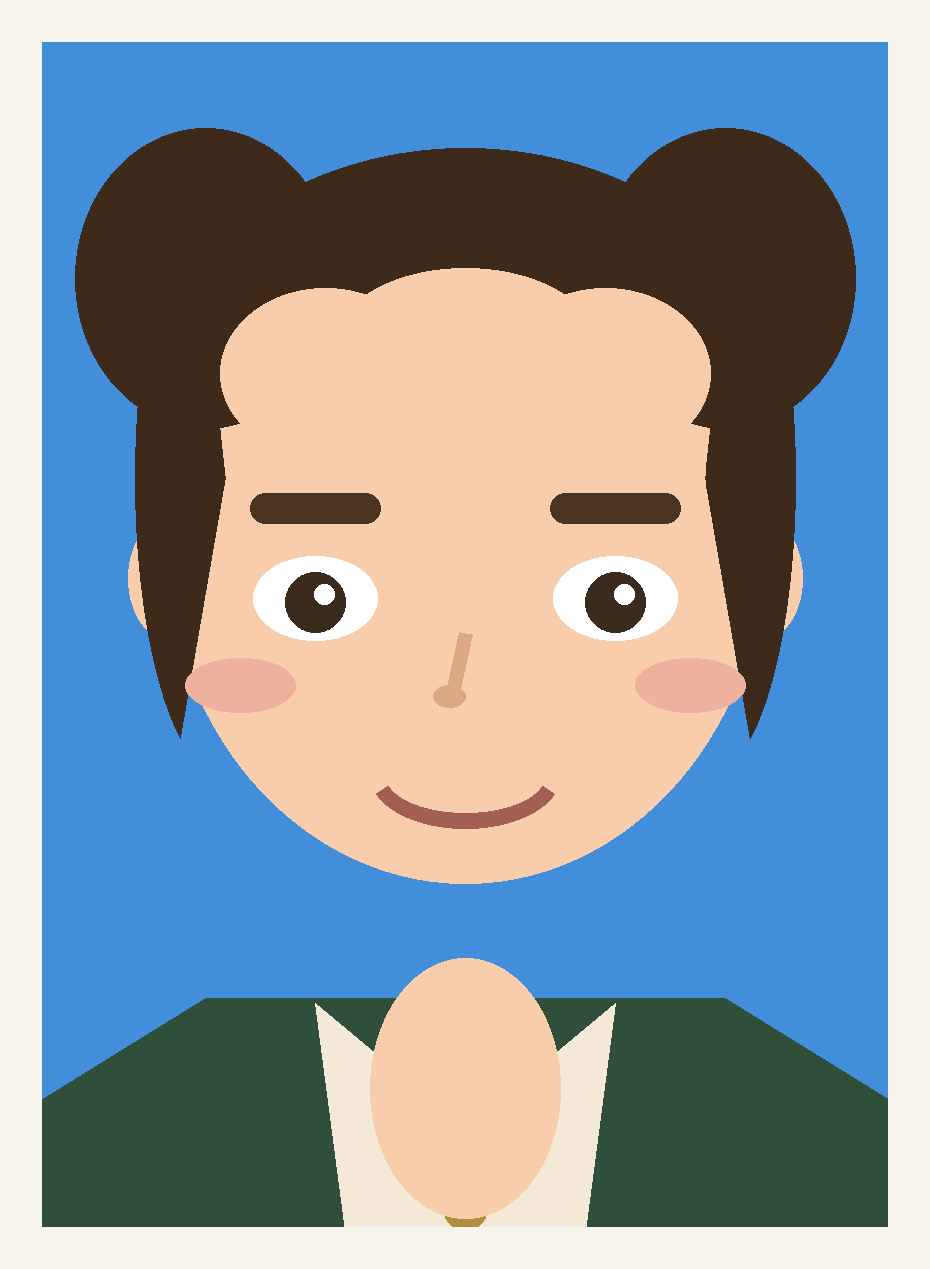
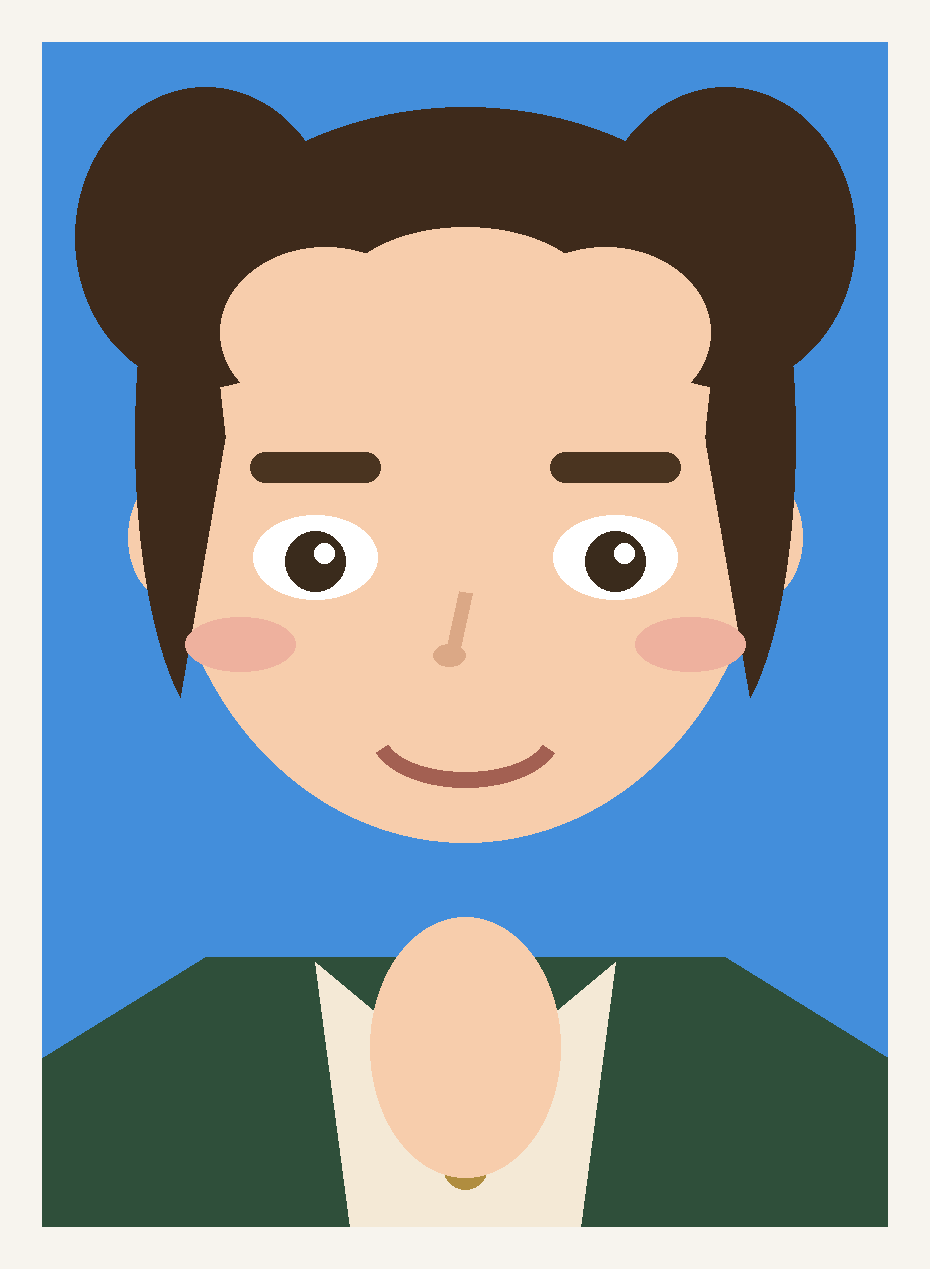
fix: visual-critic PHASE6 三项修复
- demo_pair 标注豆腐块（PIL 默认字体）改系统全量 Noto；右幅裁切与
  真实输出构图对齐（头顶余量收窄完整含入双丸子头）
- 空态新增关于页入口可见提示"长按顶部标尺，了解木照"（黄铜 caption）
- site demo_pair 同步重压

diff --git a/lib/ui/areas/area_a_source.dart b/lib/ui/areas/area_a_source.dart
@@ -402,6 +402,10 @@ class _PaperLabel extends StatelessWidget {
                 Text('轻触选择照片', style: Type.bodyStrong(T.inkBrown)),
                 const SizedBox(height: 2),
                 Text('从相册里挑一张正面照', style: Type.caption(T.inkBrown)),
+                const SizedBox(height: 6),
+                // 关于页入口的可见提示（visual-critic PHASE6：零提示发现率为零）
+                Text('长按顶部标尺，了解木照',
+                    style: Type.caption(T.brass)),
               ],
             ),
           ),

diff --git a/store/gen_demo_pair.py b/store/gen_demo_pair.py
@@ -79,7 +79,7 @@ HEAD_CY2 = 640          # 脸心：头顶(640-390=250) 之后按 9% 留白裁
 draw_character(d2, BIG_W//2, HEAD_CY2, body_dy=-260)
 # ID 窗口：头高 735px = 0.62*Hc -> Hc=1185, Wc=1185*295/413≈846
 Hc = 1185; Wc = int(Hc*295/413)
-top = (HEAD_CY2-390) - int(0.09*Hc)
+top = (HEAD_CY2-390) - int(0.055*Hc)  # 与 S5 真实输出构图对齐：头顶余量收窄，完整含入双丸子头
 left = BIG_W//2 - Wc//2
 crop = big.crop((left, top, left+Wc, top+Hc))
 # 白边相纸

diff --git a/out/VISUAL_PHASE6.md b/out/VISUAL_PHASE6.md
@@ -1,0 +1,50 @@
+# VISUAL_PHASE6 — 新增面入场快审（visual-critic）
+
+范围：S7_about、木木样张版 S2_loaded/S5_ready（含小屏）、store/demo_pair.png。
+依据：docs/RUBRIC.md 同一把尺。基线对照：G4.5 十分批的布局/材质观感（原 S2 文件已被覆盖，按本批 S1/S3/S4/S6 同框观感对照）。
+
+## 总分：8.75 / 10        致命项：1 个
+## 结论：FAIL
+
+## 致命项
+
+- [F1] store/demo_pair.png (左上 x≈75,y≈85 / 右上 x≈630,y≈85，原图 1162×840)：
+       两处中文标注渲染为豆腐块（放大裁剪 out/tmp/dp_label_left.png、dp_label_right.png 可见 3 格/4 格空心方块）。
+       效果示意图的"示意/处理后"说明完全不可读 —— RUBRIC 致命项 6（中文缺字豆腐块）同类，
+       且这是对外门店素材，标注失读 = 无法证明其为示意，直接违反本次审查项"标注是否清晰为示意"。
+       另：即便字形正常，标注字高仅约 10px（占图高 1.2%），肉眼不可辨，需同时放大加底衬。
+
+## 扣分明细
+
+- [R8/真实性 -0.5] demo_pair.png 右幅 (x≈600-1140 全幅)："处理后"样张头部被画幅边缘裁切
+  （发髻左右两侧 x≈600/x≈1140 处被切，头顶 x≈700-1050 贴边）。实际产品输出（S5_ready 候选卡）
+  头顶留有衬边、含肩部构图。官方示意与真实输出构图不符，误导观者。
+- [R6 -0.5] 关于页入口不可发现：S1–S7 九张截图内均无任何"长按标尺"可见提示
+  （S2_loaded y≈250 提示行只有"拖动四角…已锁定一寸比例"）。lib/ui/widgets/spec_ruler.dart:96 仅有
+  Semantics label '关于木照，长按打开'，读屏可闻、肉眼不可见。长按手势零视觉供示（affordance），
+  正常用户发现率为零。三段式红线不允许加常驻控件，但可用一次性气泡提示或标尺上的微小刻字解决。
+- [R7 -0.25] S5_ready 白底候选卡 (100,1150)-(460,1560)：发丝边缘轻微锯齿/毛刺（out/tmp/card_white_zoom.png），
+  无彩色镶边，程度可接受，但记录在案。
+
+## 已检查且合格
+
+- S7 材质同源：抽屉木纹为竖直方向、暖棕同族（out/tmp/s7_drawer_wood.png vs S1 背景），
+  与台面是"不同板料"关系，方向/光源一致，不构成致命项 3 的拼贴感。
+- S7 无现代弹窗感：木抽屉 + 黄铜拉手 + 纸卡 + 黄铜相片角贴，语言与工作台一致； backdrop 压暗正确。
+- S7 文字对比度实测（WCAG，区域 2%/98% 分位法）：MuZhao 标题 10.45、版本行 7.95、作者行 10.64、
+  隐私承诺 10.63、三条 bullet 10.4-10.6、离线声明 10.07、许可行 10.15、"关于" 4.55、"关闭" 5.26 —— 全部 ≥4.5:1。
+- S7 内容真实：作者 刘沅林、隐私三条（不收集/不传输/无网络权限）、版本 v1.0.0、OFL 许可、仓库地址，与事实一致；无豆腐块。
+- 木木样张换底干净：白/蓝/红三卡放大检查（out/tmp/card_white_zoom.png、card_blue_zoom.png），
+  原背景（窗格/墙面/灌木）无残留，无色晕；红底卡饱和度偏高但属规格底色，非自创色。
+- 三段布局未变：S2/S5 实测 A/B/C ≈ 47/34.6/18.3%，与 G4.5 十分批一致，误差在容差内。
+- 小屏 S2_small/S5_small (720×1560)：无挤压变形，元素比例正常，第四候选"深蓝底"为横向列表自然截断，非缺陷。
+- 品牌调性：吉祥物本身偏幼（大眼/腮红），但仅出现在样张内容层，界面铬件（标尺/铭牌/铜按钮）未随之卡通化，
+  不构成"儿童玩具"致命项；demo_pair 的"示意"标注修复后此风险即被明示覆盖。
+- S2 与 S5 为两个不同状态（md5 不同）：S2 白底选中、S5 蓝底选中，选中态浮起/铭牌增亮正确。
+
+## 修复指令（按影响排序）
+
+1. demo_pair.png 重新导出：中文标注用 Noto Serif SC 渲染（豆腐块 = 导出环境缺字体），字号 ≥24px，
+   加 paper 色底衬条；同时把右幅改为与 S5 真实输出一致的构图（头顶留边、含肩），不要另裁特写。
+2. 关于页入口加可见提示：在 S2 空态提示行追加"长按标尺可查看关于"（一次性显示即可），或标尺右端加极小铜刻字"ⓘ 长按"。
+3. （低优先）候选卡发丝边缘做 1px 收边抗锯齿。

diff --git a/out/WIN_E2E_report.md b/out/WIN_E2E_report.md
@@ -1,0 +1,50 @@
+# Windows 桌面 release 端到端验证报告（阶段 6 W2 验收）
+
+日期：2026-09-16。验证员只测不修。基线 commit：0290ef8。
+
+## 1. release 构建
+
+- `flutter build windows --release`：**成功**（首次 68.4s；插件 symlink 报错按
+  PITFALLS junction 方案处理，为 6 个 Windows 插件建联接后通过）。
+- 产物 `build/windows/x64/runner/Release/` 自检：onnxruntime.dll、
+  file_selector/gal 等插件 dll 齐；flutter_assets 含 assets/models
+  （face_yunet + modnet_portrait_int8）、fonts、textures。
+- 验证后已用默认入口重建产品包并复核入口点（data/app.so 不含 WINCMP 特征串），
+  最终冒烟 20s 存活、窗口标题"木照"。
+
+## 2. 启动冒烟
+
+- 启动 muzhao.exe：进程存活 **6 分钟以上**（验证窗口期后正常结束），
+  工作集 ~2.2GB（模型已加载），主窗口句柄存在、标题 =「木照」。无崩溃退出。
+
+## 3. 引擎 e2e（AOT vs JIT）— 黄金集
+
+- `flutter test --release` **不存在**（Flutter 3.47 flutter_tools test.dart 无该选项，
+  与 PITFALLS release 条目一致）。改用真正的 AOT 路径验证：
+  `flutter clean` → `flutter build windows --release --target=native/bench/win_cmp_android_main.dart`
+  （复用现有探针入口，未新增任何文件；构建后以 app.so 含 1 处 WINCMP 特征串确认入口已换）。
+- AOT exe 从仓库根运行（读 test/golden/src 8 张），结果：
+  **8/8 黄金图 alpha sha256 与 JIT（flutter test 探针）逐位一致**；
+  g01 原始 alpha blob 逐字节一致（sha256 c502dc27…93cc，JIT 临时目录与 AOT
+  %APPDATA%/com.muzhao/muzhao/win_cmp/ 两份哈希相同）；
+  FaceInfo 六位小数逐值一致；provider=cpu（Windows dll 无 XNNPACK，预期降级）；
+  warmUp 159ms（JIT 292ms）、latency512 median 507ms（JIT 515ms）；win_cmp_done
+  marker 落盘，进程 exit(0)。
+- JIT 基线（flutter test win_port_probe_test.dart）：All tests passed，
+  8/8 alpha + robustness checked=8 rejected=8 violations=0。
+
+## 4. 保存链路
+
+- `controller.dart` Windows 分支 = `_pickSaveDestination`（getSaveLocation 对话框）
+  → `dest.writeAsBytes(c.jpegBytes, flush: true)`（与 Android 分支 373 行同一 API 同参数）。
+- 已验证：file_selector_windows_plugin.dll 打进产物、
+  generated_plugin_registrant.cc 注册了 FileSelectorWindows（无 MissingPlugin 风险）。
+- writeAsBytes 本身是 dart:io 一行调用，与已过门禁的 Android 路径同源；
+  无人值守无法点按对话框，**对话框交互留待用户目检**（未用 SendInput，按纪律）。
+
+## 5. 遗留（用户目检清单）
+
+1. 启动后真实 UI 外观/材质（本验证只确认窗口出现与进程稳定）。
+2. 保存对话框点按→文件落盘→重新解码（G3.3 口径）的人工走查。
+3. AOT 探针未含 robustness 段（includeRobustness 仅 flutter test 形态开启）；
+   非人像优雅失败以 JIT 侧 8/8 rejected 为准。
